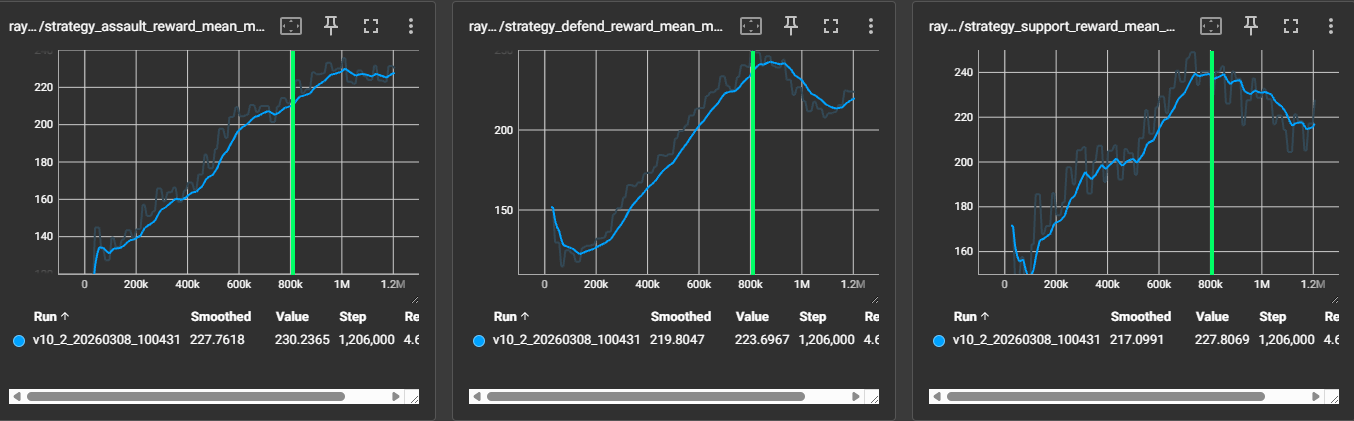
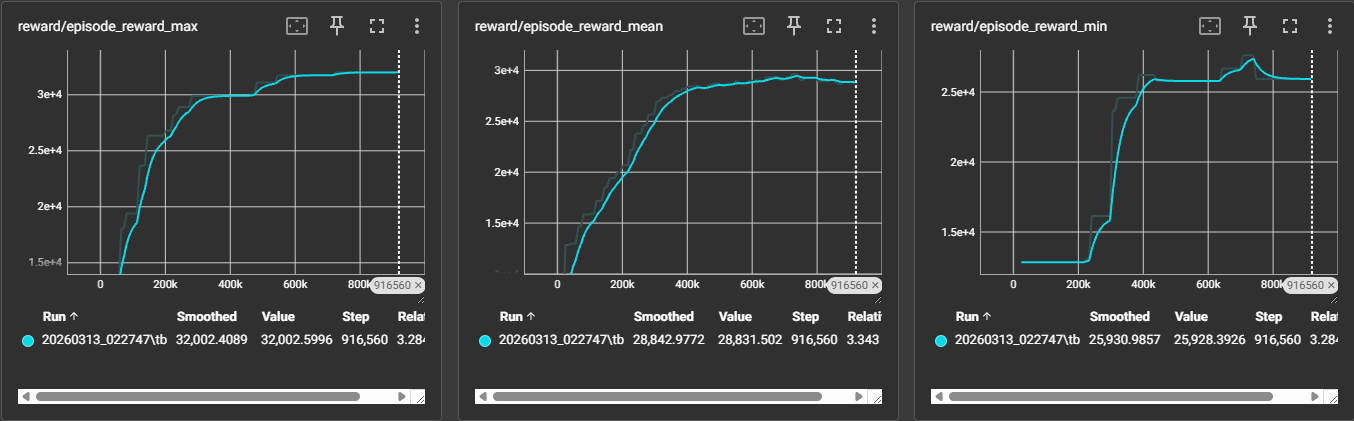
update project 1 problem 2

diff --git a/layouts/shortcodes/mermaid.html b/layouts/shortcodes/mermaid.html
@@ -1,0 +1,11 @@
+<div class="mermaid">
+  {{ .Inner | safeHTML }}
+</div>
+
+{{ if not (.Page.Scratch.Get "mermaid_loaded") }}
+  <script type="module">
+    import mermaid from 'https://cdn.jsdelivr.net/npm/mermaid@10/dist/mermaid.esm.min.mjs';
+    mermaid.initialize({ startOnLoad: true });
+  </script>
+  {{ .Page.Scratch.Set "mermaid_loaded" true }}
+{{ end }}
